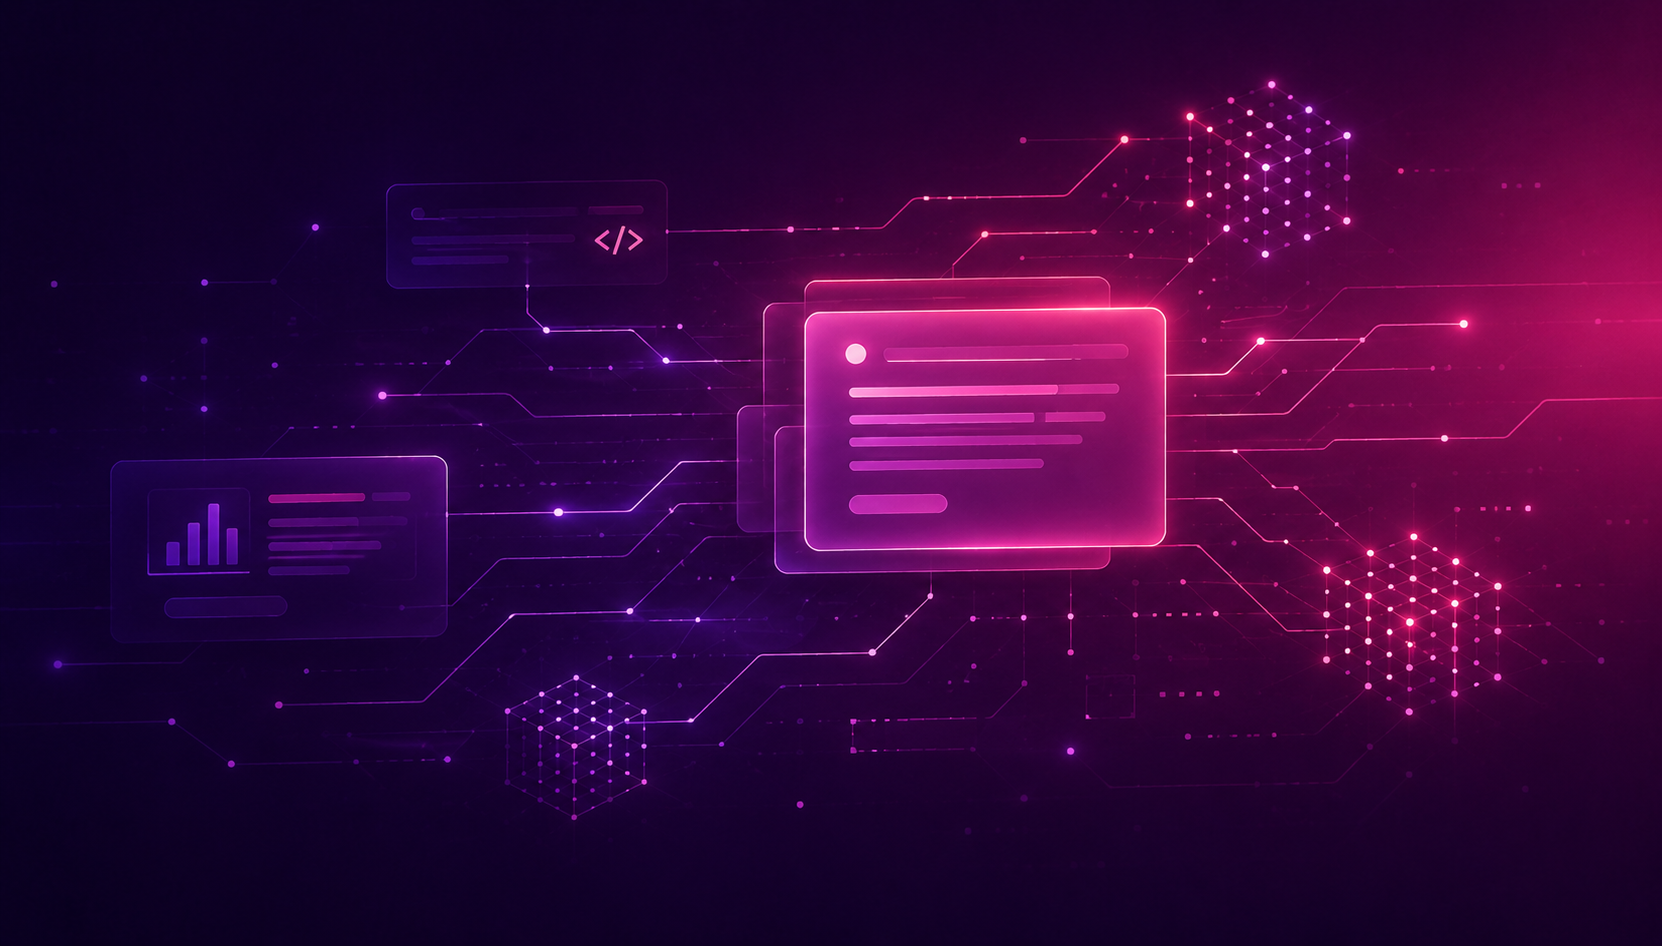
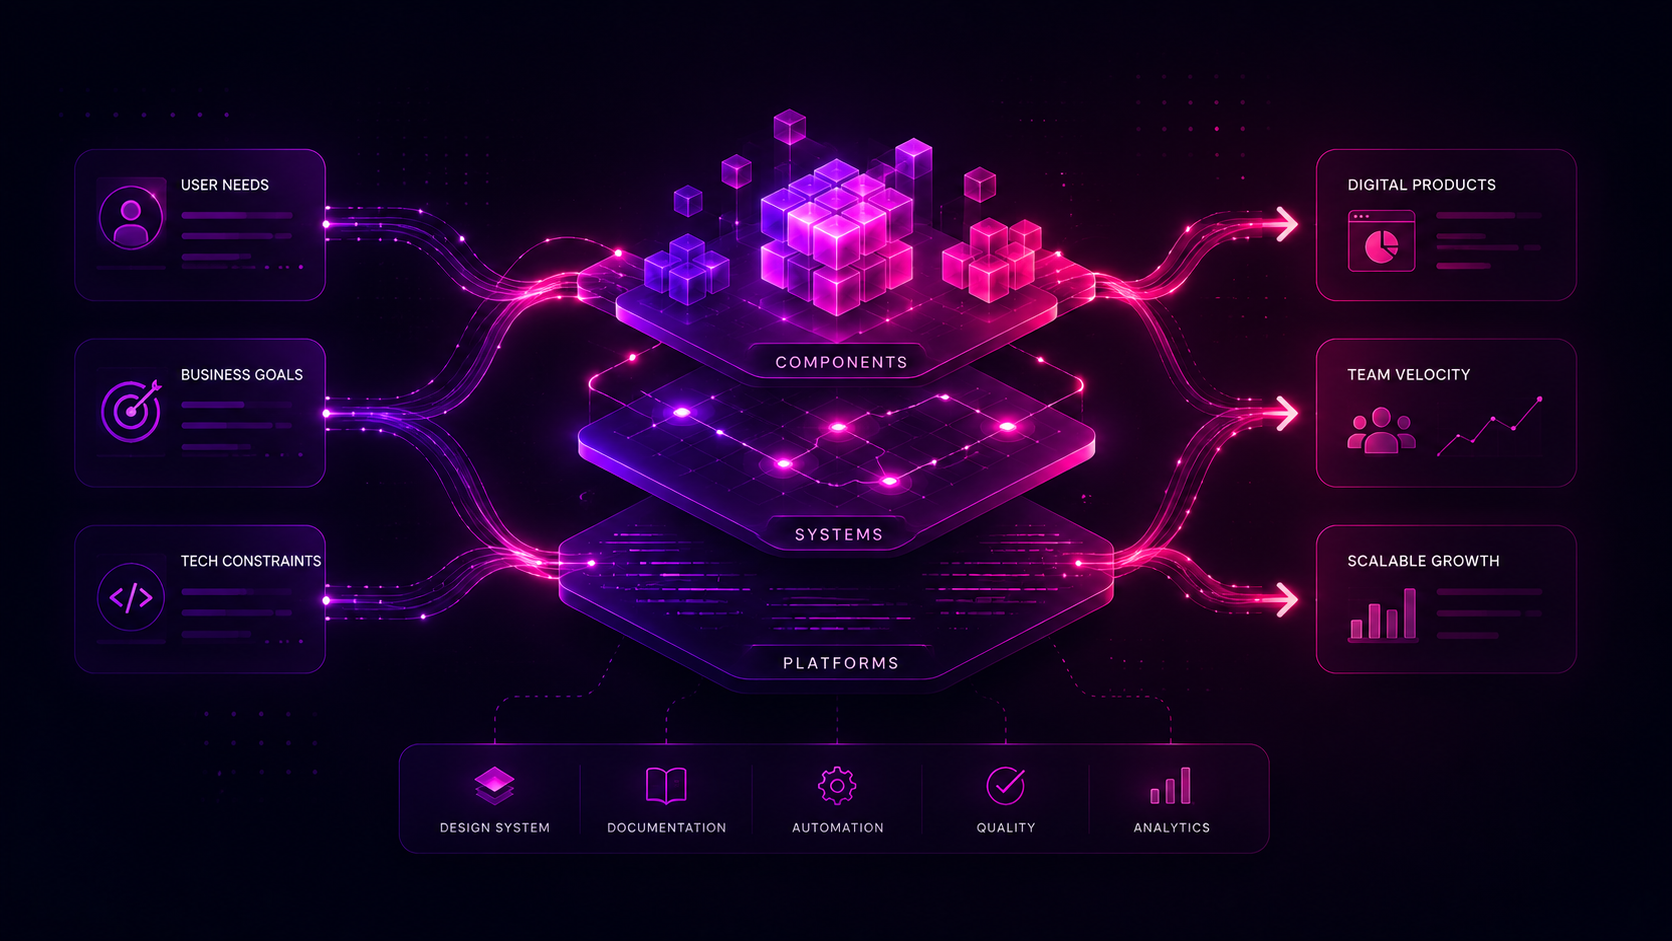
update blog images

diff --git a/app/components/Ambient.tsx b/app/components/Ambient.tsx
@@ -142,7 +142,7 @@ const ParticleField = () => {
         }
         ctx.beginPath();
         ctx.arc(p.x, p.y, p.r, 0, Math.PI * 2);
-        ctx.fillStyle = "rgba(249,168,212,0.55)";
+        ctx.fillStyle = "rgba(249,168,212,0.15)";
         ctx.fill();
         for (let j = i + 1; j < particles.length; j++) {
           const q = particles[j];
@@ -153,7 +153,7 @@ const ParticleField = () => {
             ctx.beginPath();
             ctx.moveTo(p.x, p.y);
             ctx.lineTo(q.x, q.y);
-            ctx.strokeStyle = `rgba(216,140,200,${(1 - dist / LINK_DIST) * 0.22})`;
+            ctx.strokeStyle = `rgba(216,140,200,${(1 - dist / LINK_DIST) * 0.08})`;
             ctx.lineWidth = 0.6;
             ctx.stroke();
           }
